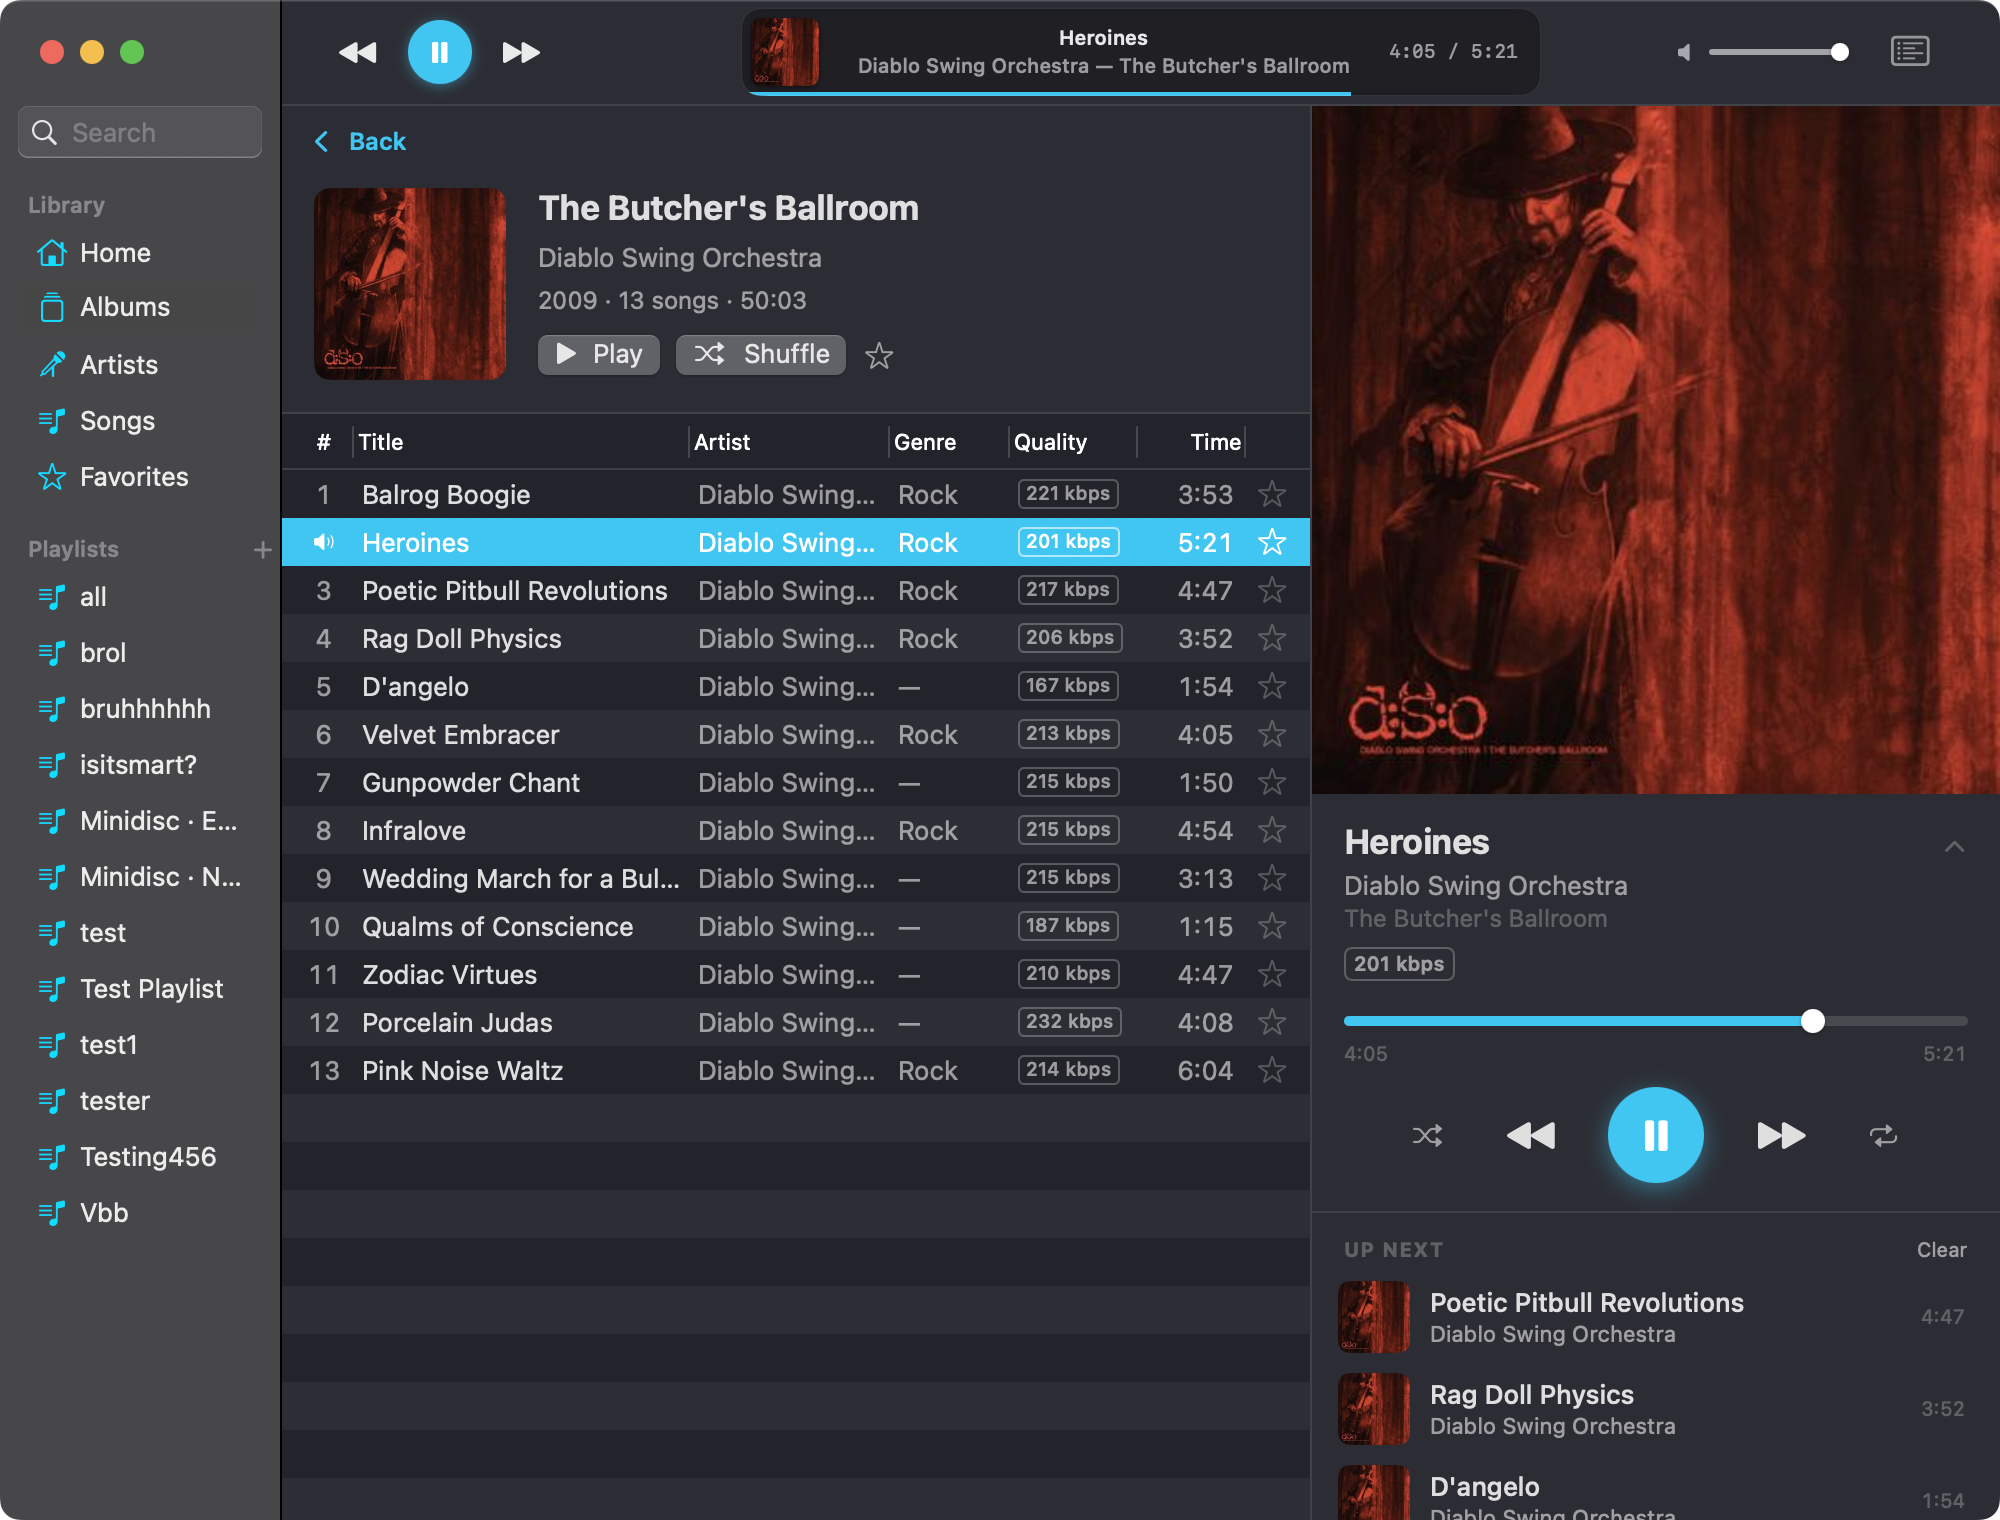
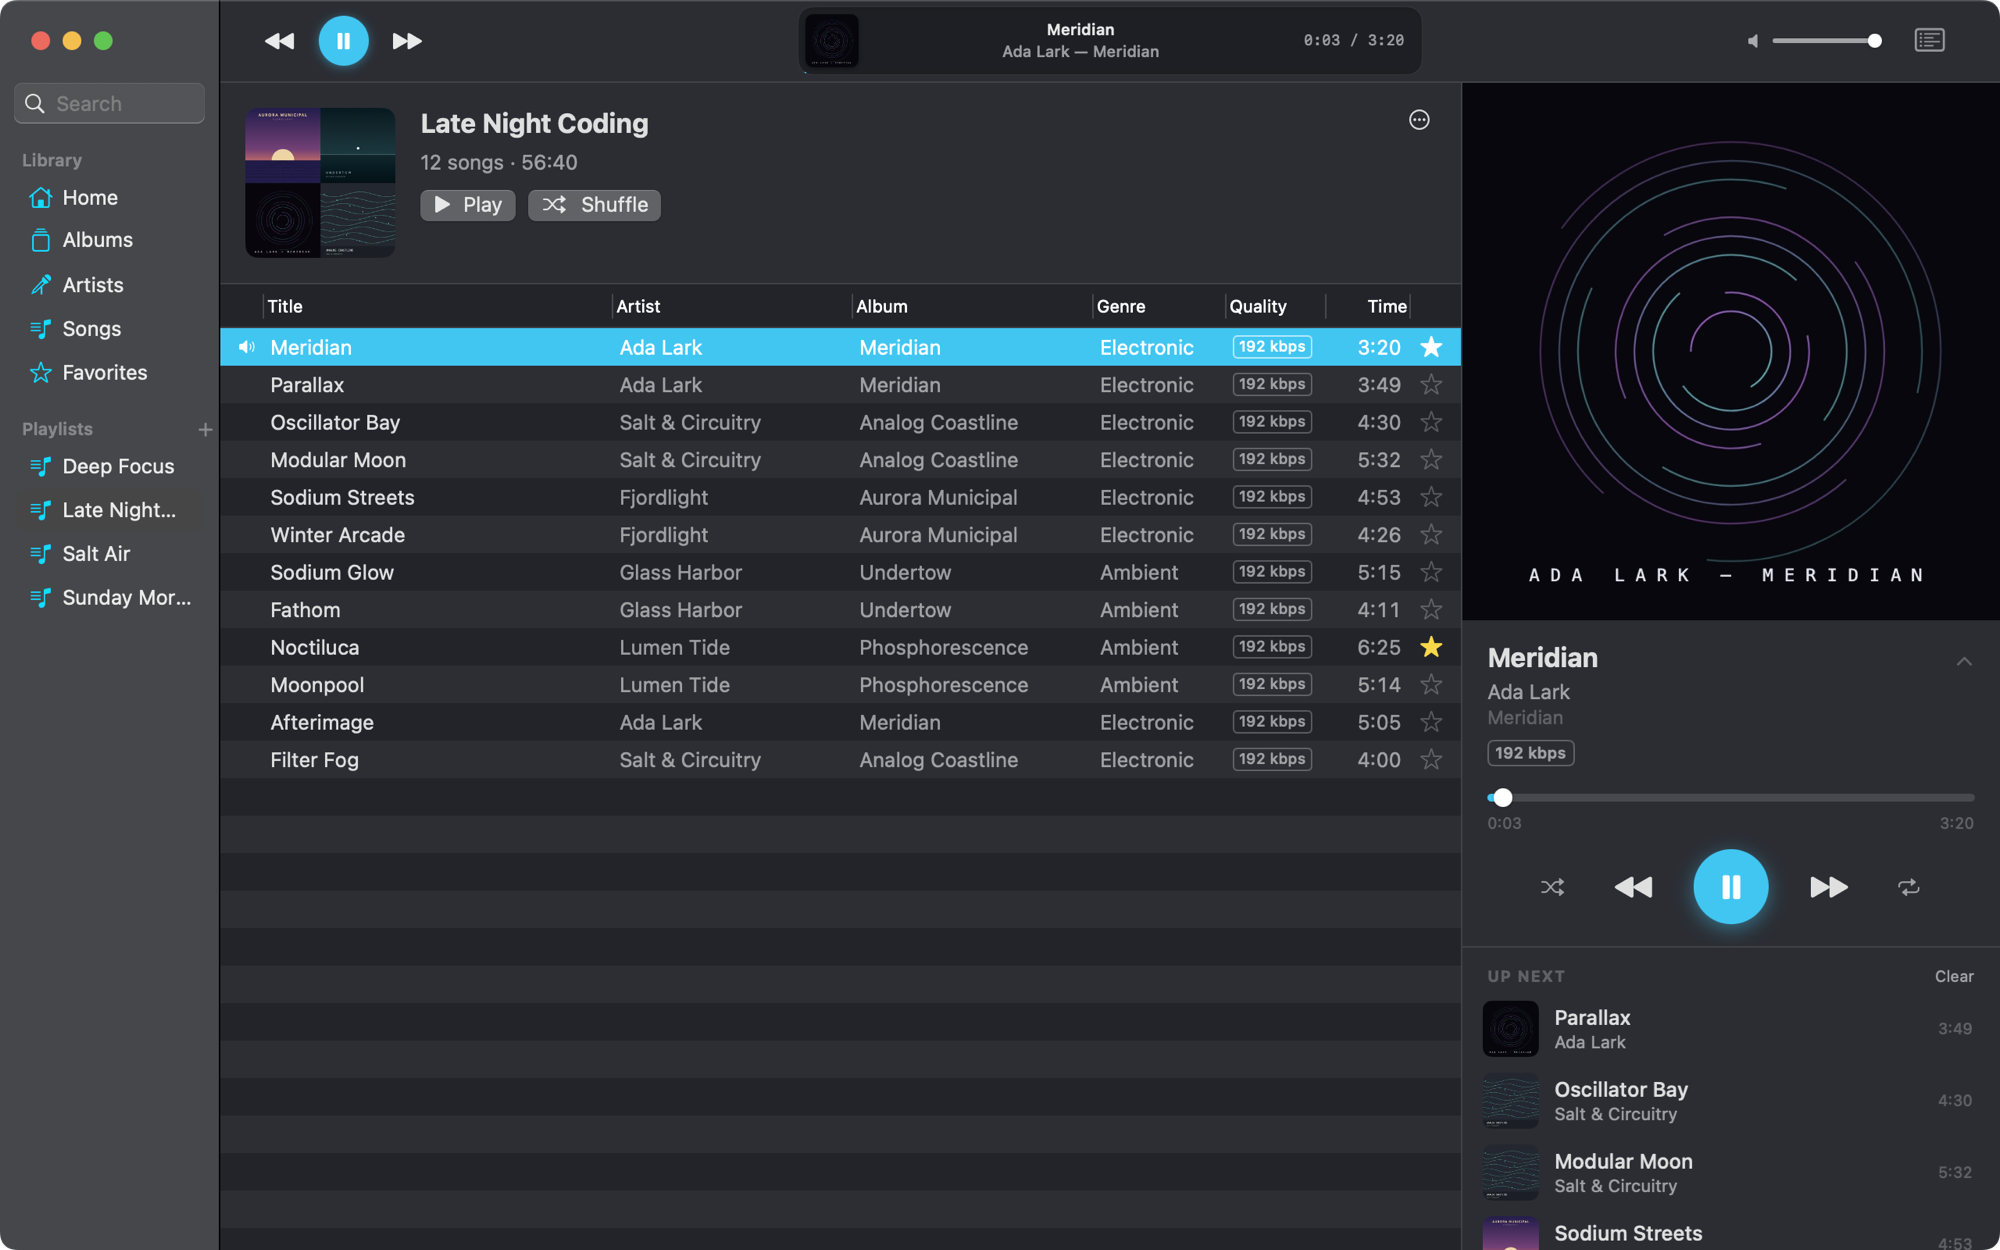
docs(site): rights-cleared hero imagery
The README/site window screenshot showed a real album; it is replaced
with a capture of the fictional screenshot library (Meridian by Ada
Lark), and the hero LCD mock now shows a fictional track too. The
Abbey Road reference in the gapless blurb stays — an editorial mention,
not depicted content.

diff --git a/site/index.html b/site/index.html
@@ -34,12 +34,12 @@
 
 <main>
   <section class="hero">
-    <div class="lcd" role="img" aria-label="Playback display showing Maxwell's Silver Hammer by The Beatles">
+    <div class="lcd" role="img" aria-label="Playback display showing Last Ferry by Fjordlight">
       <div class="lcd-glass">
         <span class="lcd-note">♪</span>
         <div class="lcd-text">
-          <span class="lcd-title">MAXWELL&rsquo;S SILVER HAMMER</span>
-          <span class="lcd-artist">THE BEATLES — ABBEY ROAD</span>
+          <span class="lcd-title">LAST FERRY</span>
+          <span class="lcd-artist">FJORDLIGHT — AURORA MUNICIPAL</span>
         </div>
         <span class="lcd-time" id="lcd-time">1:29</span>
         <div class="lcd-progress"><span id="lcd-bar"></span></div>
@@ -64,8 +64,8 @@
 
   <section class="shot">
     <div class="shot-frame">
-      <img src="assets/app-window.png" width="2000" height="1520"
-           alt="Hydrophone playing The Butcher's Ballroom: sidebar with library and playlists, a dense sortable track table with quality badges, and a Now Playing panel with artwork and an Up Next queue.">
+      <img src="assets/app-window.png" width="2000" height="1250"
+           alt="Hydrophone playing Meridian by Ada Lark: sidebar with library and playlists, a dense sortable track table with quality badges, and a Now Playing panel with artwork and an Up Next queue.">
     </div>
   </section>
 

diff --git a/README.md b/README.md
@@ -16,7 +16,7 @@ Mac app. Streaming-only, audiophile-grade playback, no Electron in sight.
 
 **[Website](https://hydrophone.app/)** · **[Latest release](https://github.com/thijsw/hydrophone/releases/latest)**
 
-![Hydrophone playing The Butcher's Ballroom — track table, quality badges and Now Playing panel with Up Next](site/assets/app-window.png)
+![Hydrophone playing Meridian by Ada Lark — track table, quality badges and Now Playing panel with Up Next](site/assets/app-window.png)
 
 </div>
 
